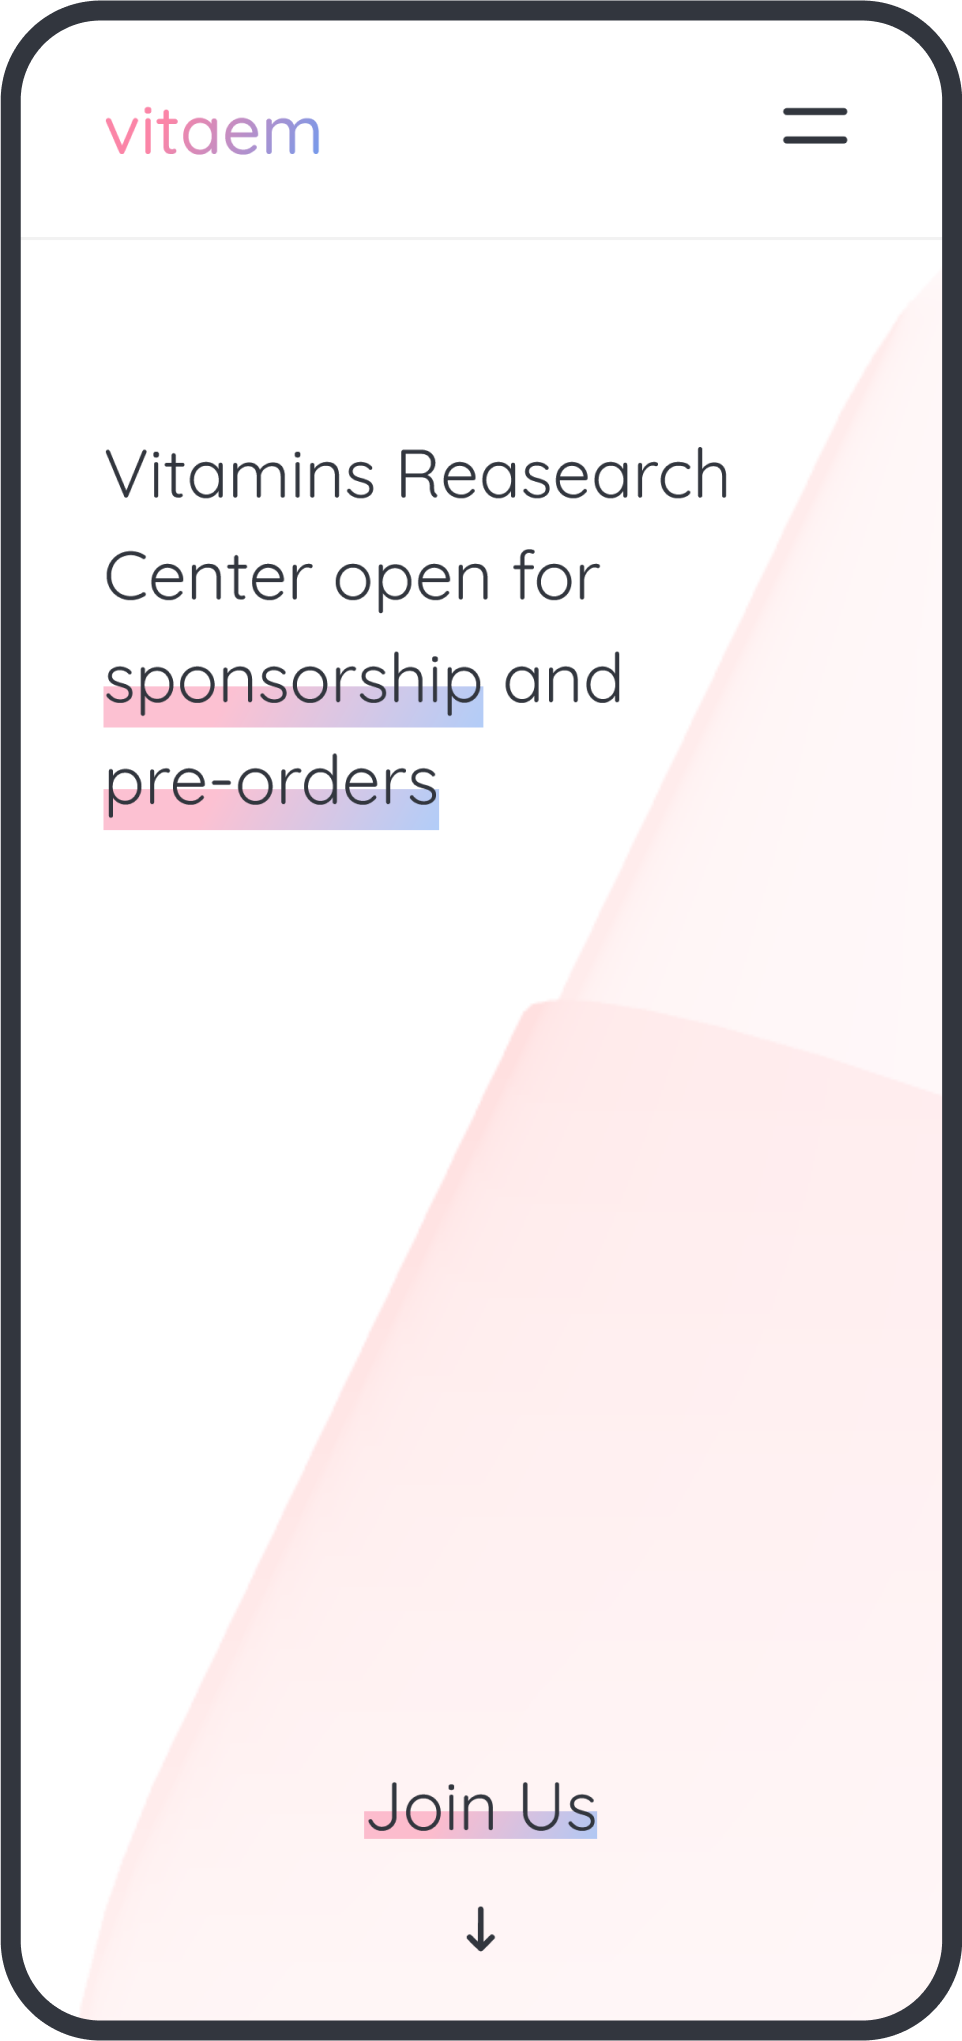
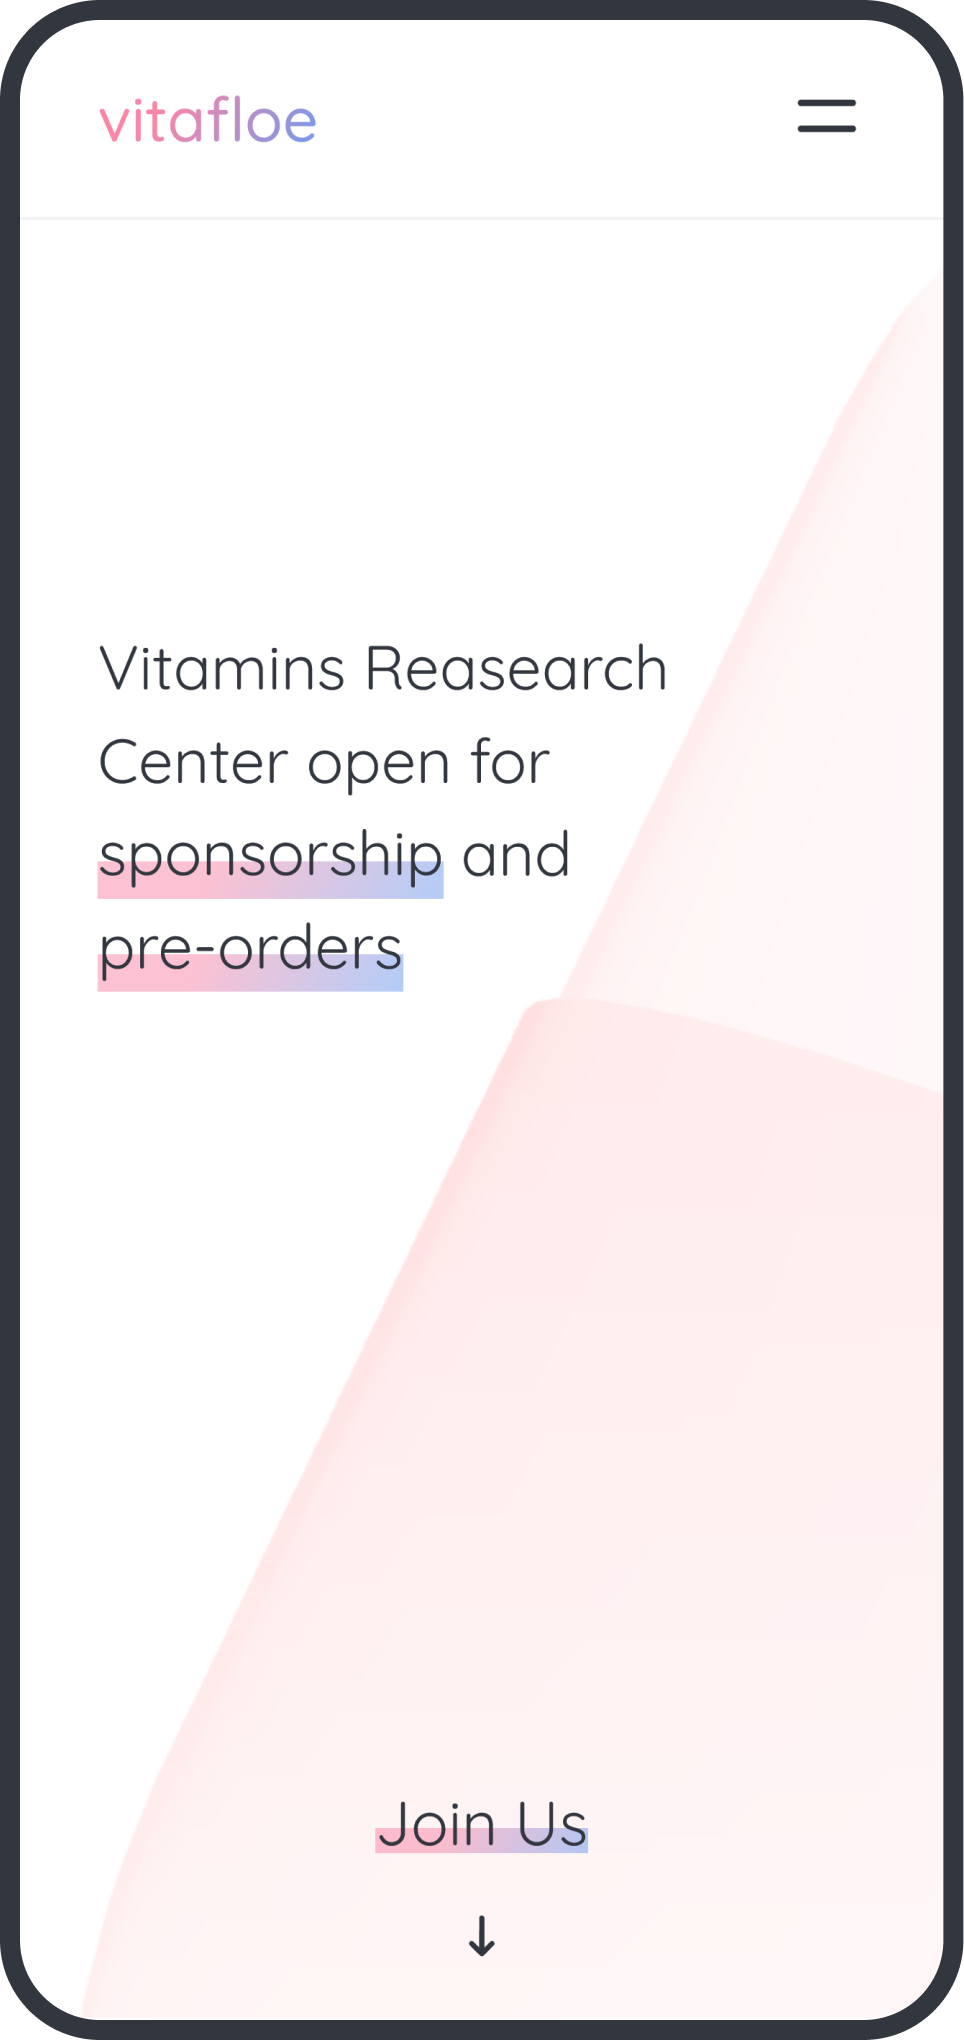
changed name, fixed main card size on bigger screens, bettered extra text animation on hero

diff --git a/src/assets/data.ts b/src/assets/data.ts
@@ -60,7 +60,7 @@ export default {
         year: "2021",
         title: "A Vision Takes Root",
         description:
-          "In 2021, Vitaem embarked on its journey in nutritional science, forming crucial partnerships and launching with a commitment to pioneering advancements in formulations. Fueled by the vision of enhancing overall well-being, our team at Vitaem began laying the groundwork for a future where cutting-edge research shapes the landscape of nutritional solutions.",
+          "In 2021, Vitafloe embarked on its journey in nutritional science, forming crucial partnerships and launching with a commitment to pioneering advancements in formulations. Fueled by the vision of enhancing overall well-being, our team at Vitafloe began laying the groundwork for a future where cutting-edge research shapes the landscape of nutritional solutions.",
         imgUrl:
           "https://images.unsplash.com/photo-1566216867955-5b2e8c77e45f?q=80&w=2670&auto=format&fit=crop&ixlib=rb-4.0.3&ixid=M3wxMjA3fDB8MHxwaG90by1wYWdlfHx8fGVufDB8fHx8fA%3D%3D",
       },
@@ -68,7 +68,7 @@ export default {
         year: "2022",
         title: "Crafting a Wellness Breakthrough",
         description:
-          "The year 2022 witnessed the initiation of an extensive research and development phase at Vitaem to create a groundbreaking vitamin formula, with collaborations ensuring alignment with the latest scientific discoveries. As our team delved into the intricacies of nutritional science, we remained dedicated to crafting a wellness breakthrough that not only met but exceeded the expectations of those seeking optimal health.",
+          "The year 2022 witnessed the initiation of an extensive research and development phase at Vitafloe to create a groundbreaking vitamin formula, with collaborations ensuring alignment with the latest scientific discoveries. As our team delved into the intricacies of nutritional science, we remained dedicated to crafting a wellness breakthrough that not only met but exceeded the expectations of those seeking optimal health.",
         imgUrl:
           "https://images.unsplash.com/photo-1616458964840-5108e4d3adb3?q=80&w=2672&auto=format&fit=crop&ixlib=rb-4.0.3&ixid=M3wxMjA3fDB8MHxwaG90by1wYWdlfHx8fGVufDB8fHx8fA%3D%3D",
       },
@@ -76,7 +76,7 @@ export default {
         year: "2023",
         title: "Testing Triumphs and Pre-Order Launch",
         description:
-          "In 2023, comprehensive testing protocols confirmed the quality, purity, and effectiveness of Vitaem's exclusive vitamin formulations. As the results of meticulous testing triumphed, we celebrated the validation of our commitment to excellence. In November, an official announcement from Vitaem declared them ready for pre-order, marking a new era of wellness through science-backed nutrition and inviting individuals to join us on this exciting journey toward a healthier future.",
+          "In 2023, comprehensive testing protocols confirmed the quality, purity, and effectiveness of Vitafloe's exclusive vitamin formulations. As the results of meticulous testing triumphed, we celebrated the validation of our commitment to excellence. In November, an official announcement from Vitafloe declared them ready for pre-order, marking a new era of wellness through science-backed nutrition and inviting individuals to join us on this exciting journey toward a healthier future.",
         imgUrl:
           "https://images.unsplash.com/photo-1516826435551-36a8a09e4526?q=80&w=2670&auto=format&fit=crop&ixlib=rb-4.0.3&ixid=M3wxMjA3fDB8MHxwaG90by1wYWdlfHx8fGVufDB8fHx8fA%3D%3D",
       },
@@ -95,13 +95,13 @@ export default {
       name: "John Smith",
       jobTitle: "Marketing Manager",
       description:
-        "Vitaem's vitamins have been a game-changer for my overall health!",
+        "Vitafloe's vitamins have been a game-changer for my overall health!",
     },
     {
       name: "Emily White",
       jobTitle: "Teacher",
       description:
-        "As an educator, I need all the energy I can get. Vitaem delivers!",
+        "As an educator, I need all the energy I can get. Vitafloe delivers!",
     },
     {
       name: "David Rodriguez",
@@ -113,7 +113,7 @@ export default {
       name: "Sophie Brown",
       jobTitle: "Fitness Trainer",
       description:
-        "Vitaem fuels my workouts and keeps me at my peak performance.",
+        "Vitafloe fuels my workouts and keeps me at my peak performance.",
     },
     {
       name: "Michael Taylor",
@@ -130,13 +130,13 @@ export default {
     {
       name: "Alexandra Lee",
       jobTitle: "Event Planner",
-      description: "Vitaem has become my secret weapon for managing stress.",
+      description: "Vitafloe has become my secret weapon for managing stress.",
     },
     {
       name: "Daniel Kim",
       jobTitle: "Doctor",
       description:
-        "As a healthcare professional, I trust Vitaem for my daily nutrition.",
+        "As a healthcare professional, I trust Vitafloe for my daily nutrition.",
     },
     {
       name: "Olivia Martinez",
@@ -147,7 +147,7 @@ export default {
       name: "William Turner",
       jobTitle: "Real Estate Agent",
       description:
-        "Vitaem is an essential part of my busy lifestyle, keeping me energized.",
+        "Vitafloe is an essential part of my busy lifestyle, keeping me energized.",
     },
     {
       name: "Eva Carter",
@@ -159,7 +159,7 @@ export default {
       name: "Chris Baker",
       jobTitle: "Engineer",
       description:
-        "Vitaem's vitamins are my daily source of vitality and balance.",
+        "Vitafloe's vitamins are my daily source of vitality and balance.",
     },
     {
       name: "Lily Nguyen",
@@ -171,7 +171,7 @@ export default {
       name: "Aaron Mitchell",
       jobTitle: "Chef",
       description:
-        "Balanced nutrition is crucial in my profession. Vitaem delivers on every front!",
+        "Balanced nutrition is crucial in my profession. Vitafloe delivers on every front!",
     },
     {
       name: "Mia Johnson",
@@ -183,7 +183,7 @@ export default {
       name: "Robert Hayes",
       jobTitle: "Financial Analyst",
       description:
-        "Vitaem is a smart investment in my overall health and well-being.",
+        "Vitafloe is a smart investment in my overall health and well-being.",
     },
     {
       name: "Grace Williams",
@@ -195,26 +195,26 @@ export default {
       name: "Jason Turner",
       jobTitle: "Pilot",
       description:
-        "Vitaem ensures I stay sharp and alert during long flights. Excellent product!",
+        "Vitafloe ensures I stay sharp and alert during long flights. Excellent product!",
     },
     {
       name: "Ava Nelson",
       jobTitle: "Social Media Manager",
       description:
-        "Fueling my productivity and creativity – Vitaem is a social media game-changer!",
+        "Fueling my productivity and creativity – Vitafloe is a social media game-changer!",
     },
     {
       name: "Jordan Baker",
       jobTitle: "Personal Trainer",
       description:
-        "My clients and I swear by Vitaem for maintaining peak fitness levels. Simply the best!",
+        "My clients and I swear by Vitafloe for maintaining peak fitness levels. Simply the best!",
     },
   ],
   advert: {
     pros: [
       "get to pre-order up to 10 000 units",
       "receive the most important updates on our products",
-      "improve your overall health by taking Vitaem",
+      "improve your overall health by taking Vitafloe",
       "acquire vitamins of the highest quality",
     ],
   },

diff --git a/index.html b/index.html
@@ -8,19 +8,19 @@
       rel="stylesheet"
       href="https://cdn.jsdelivr.net/npm/@tabler/icons-webfont@latest/tabler-icons.min.css"
     />
-    <title>vitaem - Vitamins Research Center</title>
+    <title>vitafloe - Vitamins Research Center</title>
     <meta
       name="keywords"
-      content="vitamins, research, sponsorship, pre-order, health"
+      content="vitamins, supplements, nutrition, research, sponsorship, pre-order, health"
     />
 
-    <meta property="og:title" content="vitaem - Vitamins Research Center" />
-    <meta property="og:image" content="https://i.ibb.co/jb7NQMz/vitaem.png" />
+    <meta property="og:title" content="vitafloe - Vitamins Research Center" />
+    <meta property="og:image" content="https://i.ibb.co/jb7NQMz/vitafloe.png" />
     <meta
       property="og:description"
       content="Vitamins Research Center seeks sponsors and pre-orders. Learn more about our research and development efforts."
     />
-    <meta property="og:url" content="https://vitaem.netlify.app/" />
+    <meta property="og:url" content="https://vitafloe.netlify.app/" />
     <meta property="og:image:width" content="1200" />
     <meta property="og:image:height" content="627" />
     <meta property="og:type" content="website" />

diff --git a/src/components/Footer.vue b/src/components/Footer.vue
@@ -7,7 +7,7 @@ const socials = data?.socials;
 <template>
   <footer class="footer">
     <div class="title-container">
-      <h2>vitaem</h2>
+      <h2>vitafloe</h2>
       <div class="btn-container">
         <Button button-size="lg" @click="$router.push('#join')">Join</Button>
         <div class="socials">
@@ -26,7 +26,7 @@ const socials = data?.socials;
         content?.title
       }}</RouterLink>
     </div>
-    <p class="c">©2023-2024 vitaem, Inc. All rights reserved.</p>
+    <p class="c">©2023-2024 vitafloe, Inc. All rights reserved.</p>
   </footer>
 </template>
 <style lang="scss" scoped>

diff --git a/src/components/Join.vue b/src/components/Join.vue
@@ -78,7 +78,7 @@ function submitForm() {
 
           <p class="secondary">
             * By subscribing, you agree to receive occasional promotional emails
-            from Vitaem, including updates on new product launches, exclusive
+            from Vitafloe, including updates on new product launches, exclusive
             offers, and wellness insights. Rest assured, we prioritize the
             security of your information and adhere to our privacy policy. You
             can unsubscribe at any time by clicking the link in the email

diff --git a/src/components/Header.vue b/src/components/Header.vue
@@ -156,7 +156,7 @@ onUnmounted(() => {
 <template>
   <header class="header" :class="{ 'full-size': !menuBurger }">
     <div class="menu">
-      <RouterLink to="/#home" class="logo">vitaem</RouterLink>
+      <RouterLink to="/#home" class="logo">vitafloe</RouterLink>
       <button class="btn-icon clickable" @click="openMenu = !openMenu">
         <svg
           xmlns="http://www.w3.org/2000/svg"

diff --git a/src/components/Main.vue b/src/components/Main.vue
@@ -17,7 +17,7 @@ const cards = data?.main?.cards;
       </h2>
       <p>
         Elevate your health journey with our exclusive range of vitamins. At
-        Vitaem, we're committed to pioneering cutting-edge formulations that
+        Vitafloe, we're committed to pioneering cutting-edge formulations that
         prioritize your well-being.
       </p>
     </div>

diff --git a/src/components/Home.vue b/src/components/Home.vue
@@ -67,10 +67,10 @@ function addHeroAnimation(object: any) {
       ".hero-text-animation .extra",
       {},
       {
-        y: -20,
-        rotateZ: -5,
+        yPercent: -50,
+        // rotateZ: -5,
         duration: 0.2,
-        stagger: 0.05,
+        // stagger: 0.05,
       }
     )
     .fromTo("#pill_container", {}, { autoAlpha: 0.2 }, 0)

diff --git a/src/components/Timeline.vue b/src/components/Timeline.vue
@@ -6,7 +6,7 @@ const timelineObjects = data?.timeline?.objects;
 <template>
   <section id="timeline" class="timeline-section">
     <h2 class="section-title">
-      <span class="extra">Journey</span> with Vitaem
+      <span class="extra">Journey</span> with Vitafloe
     </h2>
     <div class="timeline-container">
       <div class="line">

diff --git a/src/components/MainCard.vue b/src/components/MainCard.vue
@@ -22,9 +22,10 @@ defineProps<{ cardInfo: MainCardInfo }>();
 .main-card-container {
   position: relative;
   width: 80%;
-  max-width: 500px;
+  max-width: 20rem;
   height: 70vh;
   height: 70svh;
+  max-height: 30rem;
   background: vars.$background;
   padding: vars.$padding-sm;
   border-radius: vars.$border-radius-lg;

diff --git a/src/components/Loading.vue b/src/components/Loading.vue
@@ -7,7 +7,7 @@ const emit = defineEmits(["setShowLoading"]);
 
 let progress = ref(0);
 
-const animatedText = "VITAEM".split("");
+const animatedText = "VITAFLOE".split("");
 const tlDuration = 2;
 const progressTimeline: GSAPTimeline = gsap.timeline();
 const letterTimeline = gsap.timeline({
